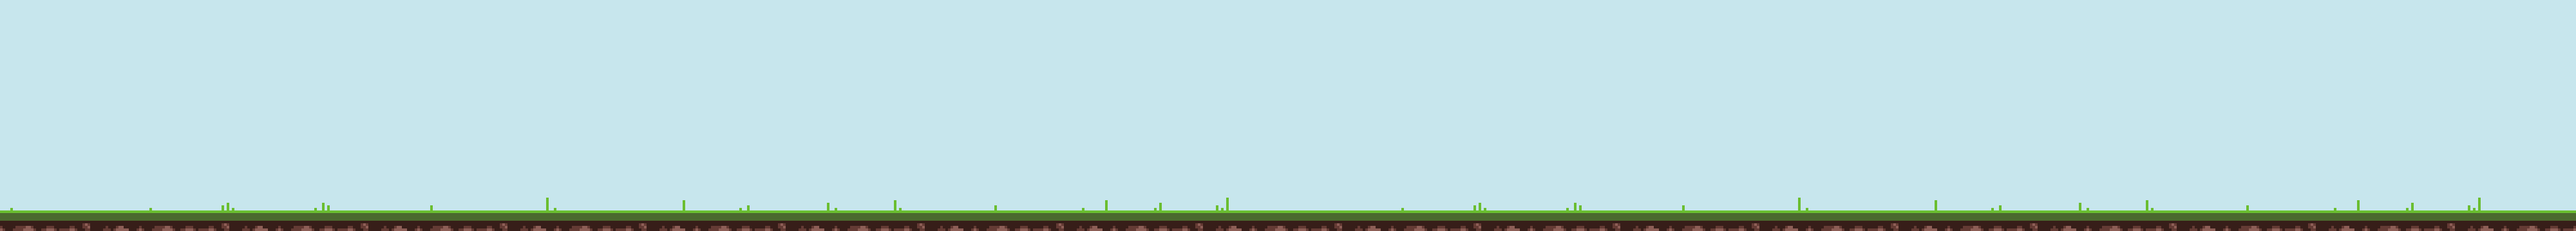
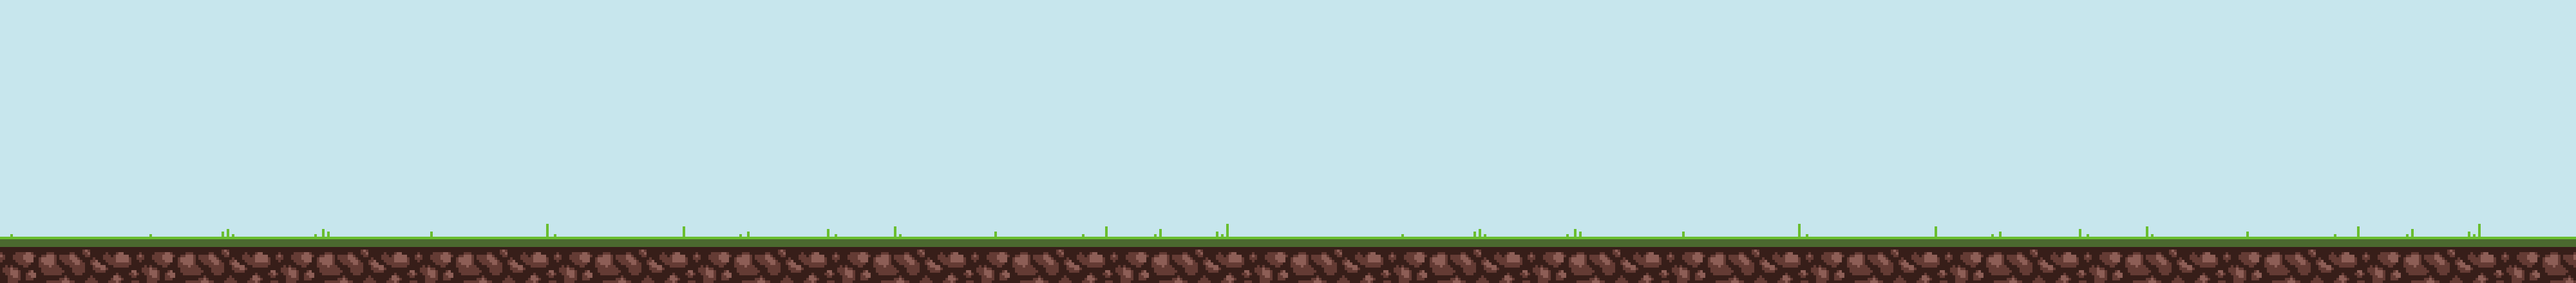
Update StepVisualizer to shrink/grow to page along with background.

Changed region(s): [[0.0, 0.825, 1.0, 1.0]]

diff --git a/components/StepVisualizer.jsx b/components/StepVisualizer.jsx
@@ -21,25 +21,30 @@ export default function StepVisualizer({
 
   // Calculate the position of the character based on distance travelled...
   const position = 10 + (distance_travelled_today / goal_distance) * 80;
-  const goalPosition = 10 + 1 * 80; 
+  const goalPosition = 10 + 1 * 80;
 
   // Determine the location based on total_distance
-  const location = userCharacter.total_distance_travelled >= 10000
-    ? "dragon"
-    : userCharacter.total_distance_travelled >= 8000
-    ? "mountains"
-    : userCharacter.total_distance_travelled >= 6000
-    ? "castle"
-    : userCharacter.total_distance_travelled >= 4000
-    ? "village"
-    : userCharacter.total_distance_travelled >= 2000
-    ? "woods"
-    : "start";
+  const location =
+    userCharacter.total_distance_travelled >= 10000
+      ? "dragon"
+      : userCharacter.total_distance_travelled >= 8000
+      ? "mountains"
+      : userCharacter.total_distance_travelled >= 6000
+      ? "castle"
+      : userCharacter.total_distance_travelled >= 4000
+      ? "village"
+      : userCharacter.total_distance_travelled >= 2000
+      ? "woods"
+      : "start";
 
   // Set the background image URL based on the location
-  const backgroundImage = `/assets/scenes/${location.replace(/\s+/g, '').toLowerCase()}.png`;
+  const backgroundImage = `/assets/scenes/${location
+    .replace(/\s+/g, "")
+    .toLowerCase()}.png`;
 
-  console.log(`${userCharacter.name} has travelled ${userCharacter.total_distance_travelled} and is at the ${location}`);
+  console.log(
+    `${userCharacter.name} has travelled ${userCharacter.total_distance_travelled} and is at the ${location}`
+  );
 
   // Render character's distance travelled...
   return (
@@ -80,7 +85,7 @@ export default function StepVisualizer({
         className="StepVisualizer-goal"
         style={{ left: `calc(${goalPosition}% - 0.8em)` }}
       >
-        <GoalIcon />
+        {distance_travelled_today !== goal_distance && <GoalIcon />}
       </div>
     </div>
   );

diff --git a/components/StepVisualizer.css b/components/StepVisualizer.css
@@ -5,13 +5,13 @@
   flex-grow: 1;
 
   width: calc(100% - 2em);
-  height: 360px;
+
   margin-top: 1em;
 
-  background-image: url('/assets/scenes/start.png');
-  background-size: 4000px;
-  background-position: center;
-  background-repeat: repeat-x;
+  background-image: url("/assets/scenes/start.png");
+  background-size: cover;
+  background-position: center center;
+  background-repeat: no-repeat;
   overflow: hidden;
 
   font-size: calc(0.5rem + 1vh);
@@ -19,9 +19,9 @@
 
 .StepVisualizer-character {
   position: absolute;
-  top: 62%;
+  top: 44%;
   transform: translate(-50%, -50%); /* Center horizontally and vertically */
-  height: 260px;
+  height: 100%;
   margin-right: 3em;
 }
 
@@ -33,14 +33,22 @@
   justify-items: center;
 }
 
+.StepVisualizer-progress {
+  min-width: 350px;
+}
+
 .StepVisualizer-goal {
   position: absolute;
-  top: 65%;
+  top: 50%;
   transform: translateY(-50%);
   font-size: calc(1em + 4vh);
 }
 
-@media (max-width: 768px) {
+#pagebody-character {
+  color: red;
+}
+
+/* @media (max-width: 768px) {
   .StepVisualizer {
     height: 180px;
     background-size: 2000px;
@@ -49,4 +57,4 @@
   .StepVisualizer-character {
     height: 130px;
   }
-}
+} */

diff --git a/components/QuestComplete.css b/components/QuestComplete.css
@@ -35,4 +35,8 @@
   .QuestComplete-congrats {
     font-size: 1.2em;
   }
+  .QuestComplete-button {
+    font-size: large;
+    padding: 0.4em;
+  }
 }

diff --git a/components/PageBody.css b/components/PageBody.css
@@ -1,5 +1,5 @@
 .PageBody {
-  /* flex-grow: 1; */
+  flex-grow: 1;
   display: flex;
   flex-direction: column;
   justify-content: center;
